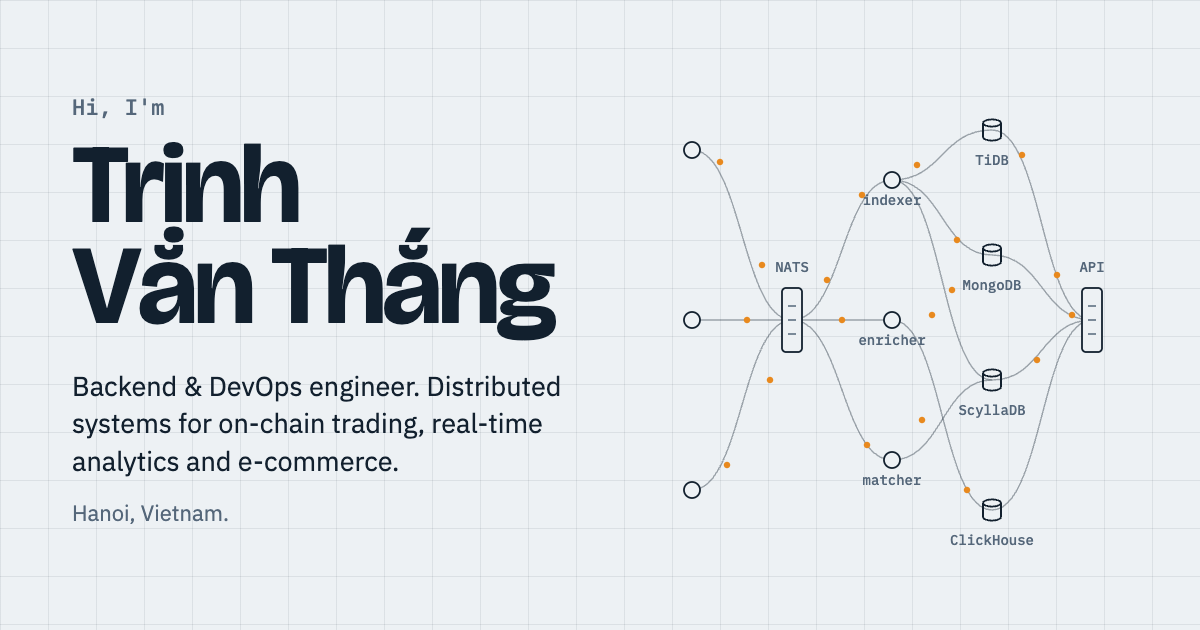
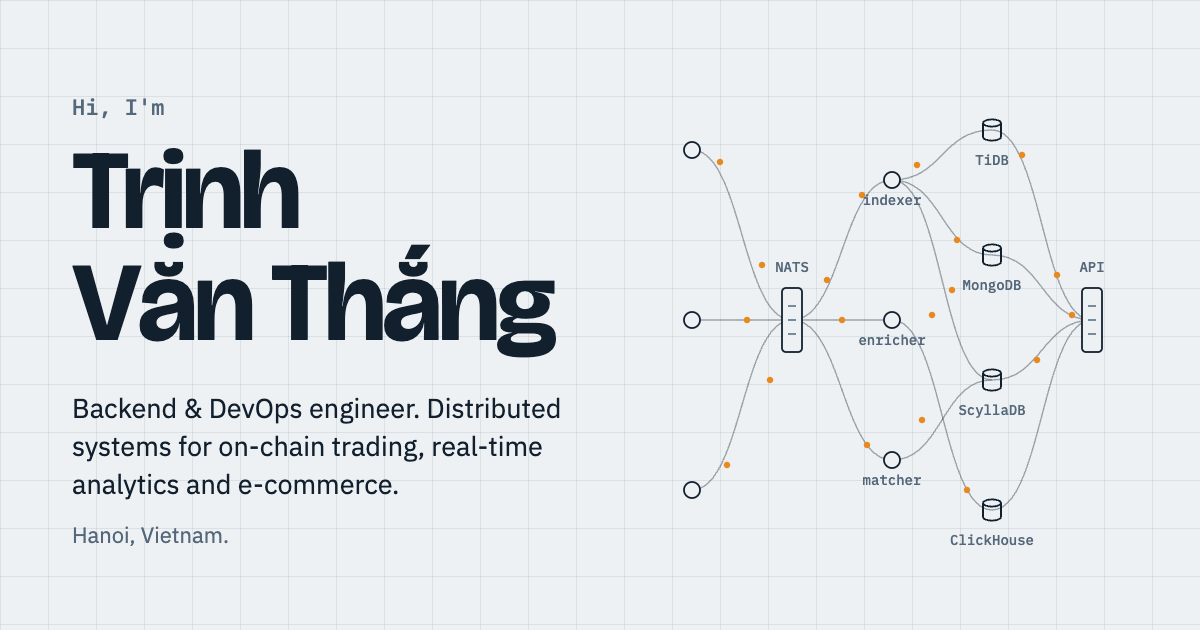
Add About section with portrait

Changed region(s): [[0.0617, 0.6032, 0.4933, 0.8746], [0.0617, 0.3317, 0.4625, 0.573], [0.0617, 0.2111, 0.2467, 0.3016]]

diff --git a/styles.css b/styles.css
@@ -157,7 +157,7 @@ ul, ol { margin: 0; padding: 0; }
   .top { gap: 0.75rem; }
   .nav { gap: 0.75rem; }
   .nav a { font-size: 0.875rem; }
-  .nav a:nth-child(3) { display: none; }
+  .nav a:nth-child(1), .nav a:nth-child(4) { display: none; }
   .theme { flex: none; width: 2rem; height: 2rem; }
 }
 
@@ -280,6 +280,7 @@ ul, ol { margin: 0; padding: 0; }
 .section {
   padding: 0 var(--gutter);
   margin-top: var(--section-gap);
+  scroll-margin-top: 4.5rem; /* keep anchored headings clear of the sticky header */
 }
 .section-head {
   position: relative;
@@ -320,6 +321,52 @@ ul, ol { margin: 0; padding: 0; }
   margin-bottom: 0.75rem;
 }
 .lede { color: var(--ink-soft); max-width: 58ch; text-wrap: pretty; }
+
+/* ------------------------------------------------------------------
+   About
+   ------------------------------------------------------------------ */
+.about-grid {
+  display: grid;
+  grid-template-columns: minmax(12rem, 16rem) minmax(0, 1fr);
+  gap: 2rem 3.5rem;
+  align-items: start;
+  max-width: 60rem;
+}
+.about-text { max-width: 62ch; display: grid; gap: 1rem; }
+.about-text p { text-wrap: pretty; }
+
+/* the photo is mounted like a figure on the drawing: framed, register marks at the corners */
+.portrait {
+  position: relative; margin: 0;
+  opacity: 0; transform: translateY(10px);
+  transition: opacity 600ms ease, transform 600ms cubic-bezier(.2,.7,.2,1);
+}
+.about-grid.in-view .portrait { opacity: 1; transform: none; }
+.portrait img {
+  display: block; width: 100%; height: auto;
+  aspect-ratio: 4 / 5; object-fit: cover; object-position: 50% 78%;
+  border: 1.5px solid var(--ink);
+  filter: saturate(0.55) contrast(1.02);
+  transition: filter 500ms ease;
+}
+.portrait:hover img { filter: none; }
+.portrait::before, .portrait::after {
+  content: ""; position: absolute; width: 14px; height: 14px;
+  border: 1.5px solid var(--hot); pointer-events: none;
+}
+.portrait::before { left: -7px; top: -7px; border-right: 0; border-bottom: 0; }
+.portrait::after  { right: -7px; bottom: 32px; border-left: 0; border-top: 0; }
+.portrait figcaption {
+  margin-top: 0.6rem; color: var(--ink-soft); font-size: 0.85rem;
+}
+.portrait figcaption .mono { color: var(--hot); margin-right: 0.4rem; }
+.about-text { opacity: 0; transform: translateY(10px); transition: opacity 600ms ease 150ms, transform 600ms cubic-bezier(.2,.7,.2,1) 150ms; }
+.about-grid.in-view .about-text { opacity: 1; transform: none; }
+
+@media (max-width: 720px) {
+  .about-grid { grid-template-columns: 1fr; }
+  .portrait { max-width: 16rem; }
+}
 
 /* ------------------------------------------------------------------
    Production figures
@@ -553,10 +600,10 @@ p.job-company { margin: 0; }
   }
   .bar span { transform: scaleX(1); }
   .section-head::before, .job::before { transform: none; }
-  .section-head > *, .figure, .job-main, .job-when, .stack-row { opacity: 1; transform: none; }
+  .section-head > *, .figure, .job-main, .job-when, .stack-row, .portrait, .about-text { opacity: 1; transform: none; }
   .job.open::after { animation: none; }
 }
 
 /* no-JS fallback: nothing waits for an observer */
 .no-js .section-head::before, .no-js .job::before { transform: none; }
-.no-js .section-head > *, .no-js .figure, .no-js .job-main, .no-js .job-when, .no-js .stack-row { opacity: 1; transform: none; }
+.no-js .section-head > *, .no-js .figure, .no-js .job-main, .no-js .job-when, .no-js .stack-row, .no-js .portrait, .no-js .about-text { opacity: 1; transform: none; }

diff --git a/index.html b/index.html
@@ -34,6 +34,7 @@
     "@type": "Person",
     "name": "Trịnh Văn Thắng",
     "alternateName": "Trinh Van Thang",
+    "image": "SITE_URL/assets/portrait.jpg",
     "jobTitle": "Backend & DevOps Engineer",
     "email": "mailto:winwinthangtrinh@gmail.com",
     "address": { "@type": "PostalAddress", "addressLocality": "Hanoi", "addressCountry": "VN" },
@@ -49,6 +50,7 @@
   <header class="top">
     <a class="wordmark" href="#top" aria-label="Trịnh Văn Thắng, home">TVT</a>
     <nav class="nav" aria-label="Sections">
+      <a href="#about">About</a>
       <a href="#production">Production</a>
       <a href="#experience">Experience</a>
       <a href="#stack">Stack</a>
@@ -79,6 +81,24 @@
       <p class="hero-caption" aria-hidden="true">
         <span class="mono">fig. 1</span> a simplified view of the platform I run at XBIT: chain events → NATS → workers → storage → API. PostgreSQL sits behind the API alone, for users and money.
       </p>
+    </section>
+
+    <!-- ============ ABOUT ============ -->
+    <section class="section about" id="about">
+      <div class="section-head">
+        <h2>About</h2>
+      </div>
+      <div class="about-grid">
+        <figure class="portrait">
+          <img src="assets/portrait.jpg" alt="Trịnh Văn Thắng standing in a city square with skyscrapers behind" width="640" height="640" loading="lazy" decoding="async">
+          <figcaption><span class="mono">fig. 0</span> the engineer, off duty</figcaption>
+        </figure>
+        <div class="about-text">
+          <p>I'm a backend and DevOps engineer working on the systems behind on-chain trading at XBIT: a real-time analytics and trading platform and a perpetual futures exchange. I write services in Go and Node.js, run them on Kubernetes across Hetzner, AWS and Azure, and stay on call for both the code and the infrastructure it runs on.</p>
+          <p>The part of the job I like most is taking a system that is starting to hurt, finding where the time and money actually go, and removing that. That has meant scaling a platform fifty times over without buying fifty times the hardware, cutting a cloud bill by more than half, and keeping trading systems up while releases roll through them.</p>
+          <p>Before XBIT I built e-commerce and enterprise platforms at Forlife, and GameFi and NFT backends at Lucis Network. I studied computer science at Hanoi University of Science and Technology.</p>
+        </div>
+      </div>
     </section>
 
     <!-- ============ PRODUCTION FIGURES ============ -->

diff --git a/assets/og.html b/assets/og.html
@@ -17,7 +17,7 @@
   }
   .copy { position: absolute; left: 72px; top: 92px; width: 560px; }
   .hello { font-family: "IBM Plex Mono", monospace; color: #55677A; font-size: 22px; margin: 0 0 14px; }
-  h1 { font-family: "Bricolage Grotesque", sans-serif; font-weight: 700; font-size: 112px; line-height: .9; letter-spacing: -.035em; margin: 0 0 30px; font-variation-settings: "opsz" 96; }
+  h1 { font-family: "Bricolage Grotesque", sans-serif; font-weight: 700; font-size: 112px; line-height: 1; letter-spacing: -.035em; margin: 0 0 30px; font-variation-settings: "opsz" 96; }
   .role { font-size: 27px; line-height: 1.4; margin: 0; color: #12202E; }
   .where { font-size: 22px; color: #55677A; margin: 18px 0 0; }
   svg { position: absolute; right: 48px; top: 60px; }

diff --git a/main.js b/main.js
@@ -81,7 +81,7 @@
   }
 
   /* Reveal-on-scroll for headings, timeline entries and stack rows */
-  const revealables = document.querySelectorAll(".section-head, .job, .stack-row");
+  const revealables = document.querySelectorAll(".section-head, .about-grid, .job, .stack-row");
   if ("IntersectionObserver" in window) {
     const ioR = new IntersectionObserver((entries) => {
       for (const e of entries) {

diff --git a/README.md b/README.md
@@ -7,7 +7,7 @@ browser or serve the folder with any static server.
 index.html      content and structure
 styles.css      design tokens, layout, dark mode
 main.js         theme toggle, timeline, figures, hero schematic (canvas)
-assets/         favicon, social preview image and its source
+assets/         favicon, portrait, social preview image and its source
 ```
 
 ## Edit content
@@ -15,6 +15,7 @@ assets/         favicon, social preview image and its source
 Everything visible is in `index.html`. The sections, in order:
 
 - Hero copy (name, role, location, buttons)
+- About — portrait (`assets/portrait.jpg`, cropped with CSS `object-position`) and three paragraphs
 - "What I've run in production" — the five figures
 - Experience timeline — one `<li class="job">` per company
 - Stack — one `<div class="stack-row">` per group
